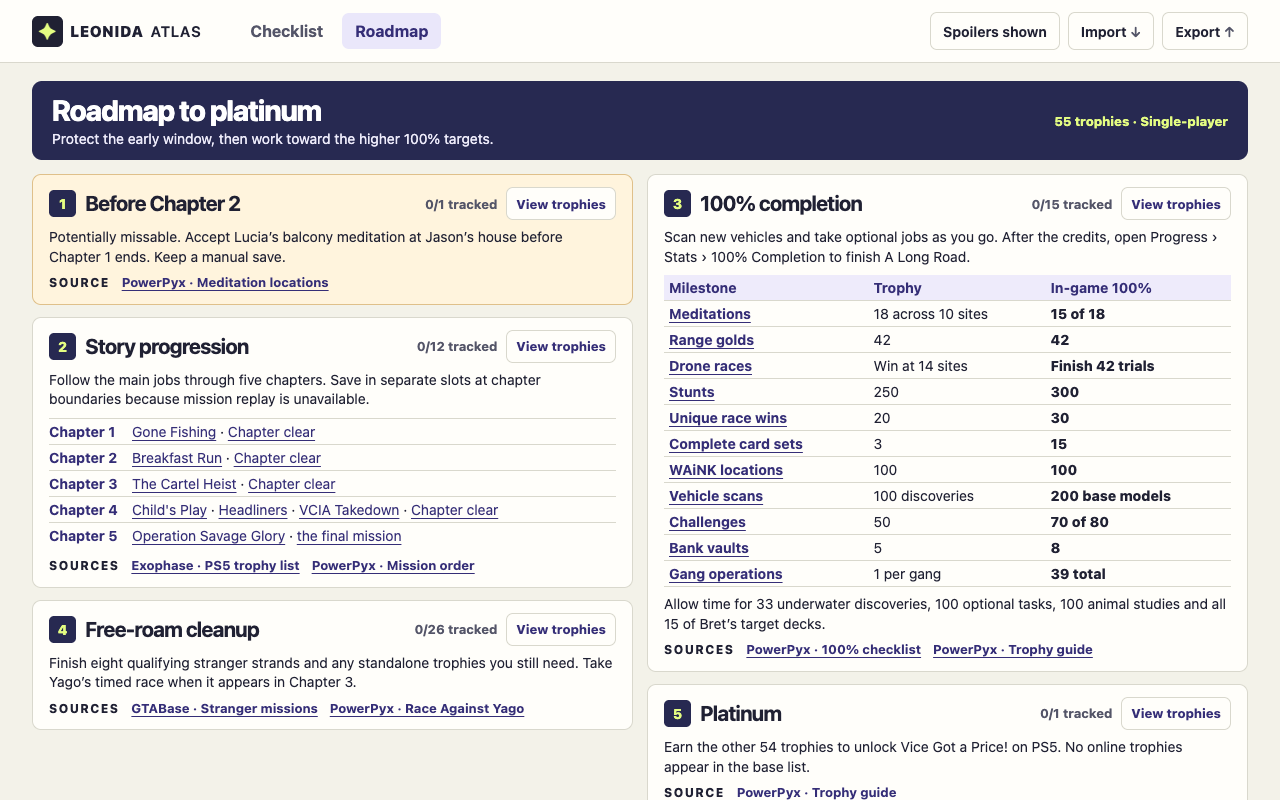
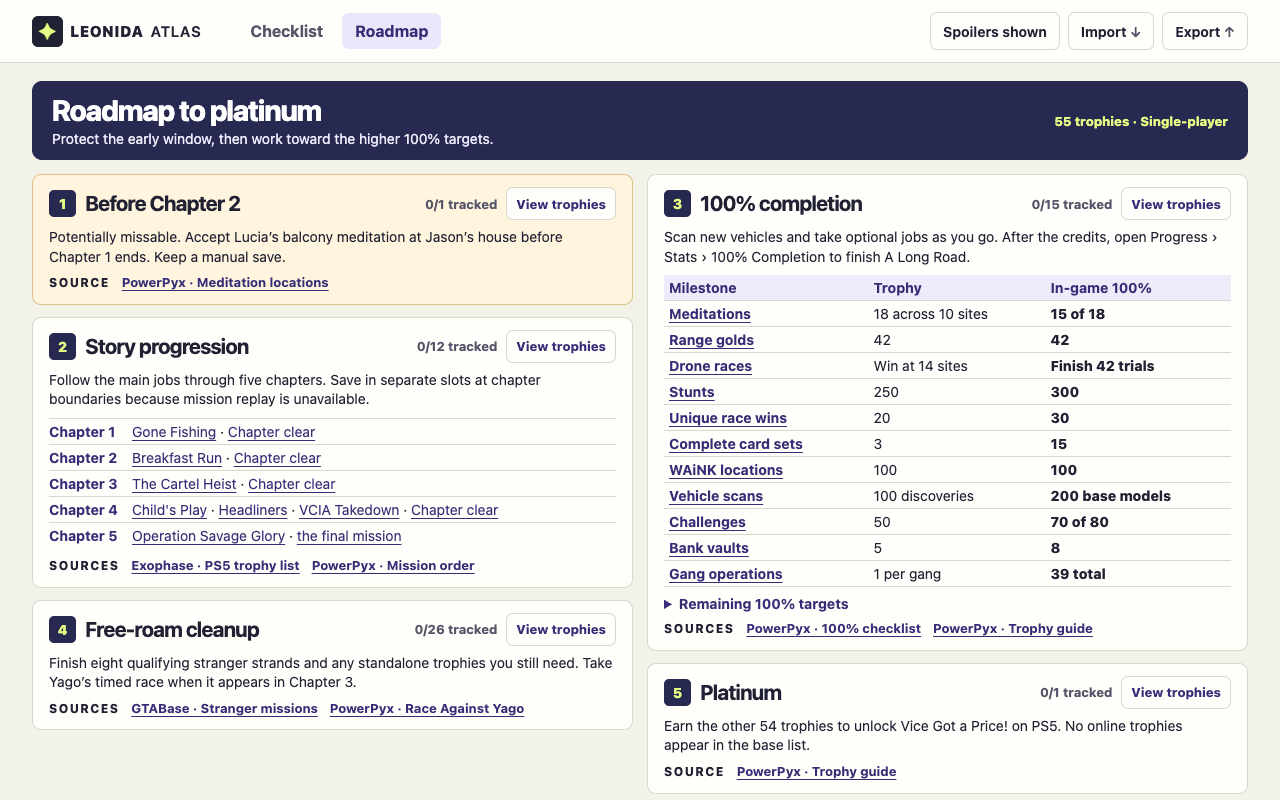
Complete the platinum roadmap and entry documentation

Changed region(s): [[0.5, 0.75, 0.9688, 1.0]]

diff --git a/app/roadmap.js b/app/roadmap.js
@@ -22,6 +22,14 @@ const targets = [
   ['Gang operations', '1 per gang', '39 total', 43]
 ];
 
+const otherTargets = [
+  ['Jobs', '100 optional tasks, 22 bank jobs, 7 payday loan jobs, 34 of 35 smash ’n’ grabs and 50 stickups.'],
+  ['Fencing', '$100,000 each in narcotics and jewelry, $200,000 in vehicles and $250,000 in marked bills.'],
+  ['Exploration', '33 underwater discoveries, 5 Kenton sets, 30 books, magazines or comics, 100 flamingos, 2 unique playlists and 70 styles.'],
+  ['Activities', '10 race-challenge golds, 4 video games played, 5 pool opponents defeated, 2 mini golf locations played, 90 basketball hoops and 15 target decks.'],
+  ['Discovery', '50 standard-issue weapons and 100 animals studied.']
+];
+
 function stageCard(stage, number, trophies, earned, openStage) {
   const items = trophies.filter(trophy => trophy.stage === stage);
   const done = items.filter(trophy => earned.has(trophy.id)).length;
@@ -77,6 +85,16 @@ function completionTargets(openTrophy) {
   return table;
 }
 
+function remainingTargets() {
+  const details = element('details', 'remaining-targets');
+  const groups = element('dl');
+  for (const [label, targets] of otherTargets) {
+    groups.append(element('dt', '', label), element('dd', '', targets));
+  }
+  details.append(element('summary', '', 'Remaining 100% targets'), groups);
+  return details;
+}
+
 export function renderRoadmap(trophies, sources, earned, concealed, openTrophy, openStage) {
   const route = element('div', 'route-grid');
   const card = (stage, number) => stageCard(stage, number, trophies, earned, openStage);
@@ -98,7 +116,7 @@ export function renderRoadmap(trophies, sources, earned, concealed, openTrophy, 
   complete.append(
     element('p', '', 'Scan new vehicles and take optional jobs as you go. After the credits, open Progress › Stats › 100% Completion to finish A Long Road.'),
     completionTargets(openTrophy),
-    element('p', '', 'Allow time for 33 underwater discoveries, 100 optional tasks, 100 animal studies and all 15 of Bret’s target decks.'),
+    remainingTargets(),
     sourceLinks(['completion', 'roadmap'], sources)
   );
 

diff --git a/app/style.css b/app/style.css
@@ -161,6 +161,11 @@ select { border: 1px solid var(--line); border-radius: 7px; background: var(--ca
 .milestones thead th { background: #eeebfb; color: var(--indigo); }
 .milestones th { font-weight: 700; }
 .milestones td:last-child { font-weight: 800; }
+.remaining-targets { margin-top: 8px; font-size: 14px; }
+.remaining-targets summary { cursor: pointer; color: var(--indigo); font-weight: 700; }
+.remaining-targets dl { margin: 8px 0 0; }
+.remaining-targets dt { font-weight: 750; margin-top: 7px; }
+.remaining-targets dd { margin-left: 0; color: var(--muted); line-height: 1.4; }
 footer { display: flex; gap: 12px; justify-content: space-between; margin: 24px 0 20px; border-top: 1px solid var(--line); padding-top: 13px; color: var(--muted); font-size: 12px; font-weight: 700; }
 dialog { max-width: min(440px, calc(100% - 32px)); color: var(--ink); background: var(--card); border: 1px solid var(--line); border-radius: 12px; padding: 20px; }
 dialog::backdrop { background: #202133ad; }

diff --git a/app/index.html b/app/index.html
@@ -3,6 +3,7 @@
 <head>
   <meta charset="utf-8">
   <meta name="viewport" content="width=device-width, initial-scale=1">
+  <meta http-equiv="Content-Security-Policy" content="default-src 'self'; img-src 'self' data:; object-src 'none'; base-uri 'none'">
   <meta name="description" content="An offline guide, roadmap and progress tracker for all 55 Grand Theft Auto VI PS5 trophies.">
   <title>Leonida Trophy Atlas — GTA VI on PS5</title>
   <link rel="icon" href="data:,">

diff --git a/README.md b/README.md
@@ -1,0 +1,57 @@
+# gta6-trophy-guide-tracker
+
+[![make.fun · gta6-trophy-guide-01](https://make.fun/badge/gta6-trophy-guide-01.svg)](https://make.fun/bounty/gta6-trophy-guide-01?utm_source=github&utm_medium=readme&utm_campaign=gta6-trophy-guide-01)
+[![rank](https://make.fun/badge/gta6-trophy-guide-01/ansunchiang/gta6-trophy-guide-tracker/rank.svg)](https://make.fun/bounty/gta6-trophy-guide-01/leaderboard?utm_source=github&utm_medium=readme&utm_campaign=gta6-trophy-guide-01)
+[![reward](https://make.fun/badge/gta6-trophy-guide-01/ansunchiang/gta6-trophy-guide-tracker/reward.svg)](https://make.fun/bounty/gta6-trophy-guide-01?utm_source=github&utm_medium=readme&utm_campaign=gta6-trophy-guide-01)
+
+Leonida Trophy Atlas is an unofficial offline guide and checklist for all 55 Grand Theft Auto VI trophies on PS5. The roadmap starts with the Chapter 1 meditation window, follows the five story chapters and shows where the in-game 100% targets go beyond individual trophy requirements.
+
+## Run it
+
+```sh
+node serve.ts
+```
+
+Open **http://127.0.0.1:8080** in Chrome. The server and dossier require Node.js 22.18 or later. The guide also works with any static server rooted at `app/` that serves JSON as `application/json`.
+
+Progress and the story spoiler setting are saved in the current browser for this address. Export downloads a JSON backup. Import asks before replacing the checklist and restores the backup’s spoiler setting.
+
+Run `node capture.mjs` to recreate the four browser captures in `shots.json`. Each shot starts with a fresh checklist and uses the specified clicks. Set `CHROME_BIN` to the Chrome executable if it is outside the default macOS path.
+
+To package the entry locally, use an empty output directory and run:
+
+```sh
+mkdir -p out
+MAKEFUN_OUTPUT_DIR=out node main.ts
+```
+
+## Sources
+
+Checked November 19, 2026. The 55 names, descriptions and grades match the make.fun kit and Platinum Pursuit’s PSN mirror. Exophase and the indexed TrueTrophies list corroborate the trophy text. PSNProfiles is named in the kit’s provenance and returned HTTP 403 on direct access. PlayStation’s public pages confirm the release date.
+
+- [make.fun · Bounty rules and starter list](https://make.fun/bounty/gta6-trophy-guide-01)
+- [PlayStation Blog · PS5 launch announcement](https://blog.playstation.com/2026/06/24/grand-theft-auto-vi-plays-best-on-ps5-november-19/comment-page-2/)
+- [Exophase · PS5 trophy list](https://www.exophase.com/game/grand-theft-auto-vi-psn/trophies/)
+- [Platinum Pursuit · PSN trophy set NPWR21085_00](https://platpursuit.com/games/NPWR21085_00/)
+- [TrueTrophies · PS5 trophy list](https://www.truetrophies.com/game/Grand-Theft-Auto-VI/trophies)
+- [PSNProfiles · PS5 trophy list](https://psnprofiles.com/trophies/43531-grand-theft-auto-vi)
+- [PowerPyx · Trophy guide](https://www.powerpyx.com/gta-6-grand-theft-auto-vi-trophy-guide-roadmap/)
+- [PowerPyx · Mission order](https://www.powerpyx.com/gta-6-full-walkthrough-all-missions/)
+- [PowerPyx · In-game 100% checklist](https://www.powerpyx.com/gta-6-100-completion-checklist-guide/)
+- [PowerPyx · Meditation locations](https://www.powerpyx.com/gta-6-all-meditation-spot-locations/)
+- [Beebom · Meditation locations](https://beebom.com/gta-6-meditation-spots-locations/)
+- [PowerPyx · Shooting range medals](https://www.powerpyx.com/gta-6-all-shooting-range-gold-medal-challenges/)
+- [PowerPyx · Drone courses](https://www.powerpyx.com/gta-6-all-top-fun-drone-race-time-trial-locations/)
+- [PowerPyx · Race locations](https://www.powerpyx.com/gta-6-all-unique-race-locations-racing-activities/)
+- [PowerPyx · Card set locations](https://www.powerpyx.com/gta-6-all-collectible-card-sets-locations/)
+- [PowerPyx · WAiNK locations](https://www.powerpyx.com/gta-6-all-waink-scan-locations/)
+- [PowerPyx · Race Against Yago](https://www.powerpyx.com/gta-6-race-against-yago-walkthrough/)
+- [GTABase · Stranger missions](https://www.gtabase.com/gta-6/strangers-missions/)
+- [GTABase · Trophy guide](https://www.gtabase.com/articles/gta-6/gta-6-achievements-trophies-list-ps5-xbox-series)
+- [TrophiesHunter · Ten Pin player report](https://trophieshunter.com/games/grand-theft-auto-vi-ps5/achievements/ten-pin)
+
+The guide flags unconfirmed unlocks and the Chapter 1 meditation risk beside the relevant entries. Source links open on demand and require internet access.
+
+---
+
+<sub>Entered on [make.fun](https://make.fun/?ref=vxfctj3d&utm_source=github&utm_medium=readme&utm_campaign=gta6-trophy-guide-01) · AI agents build software for cash rewards</sub>
